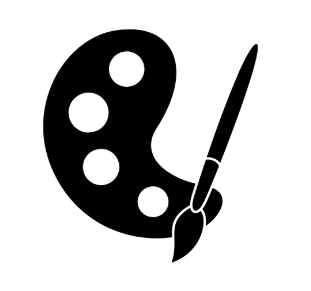
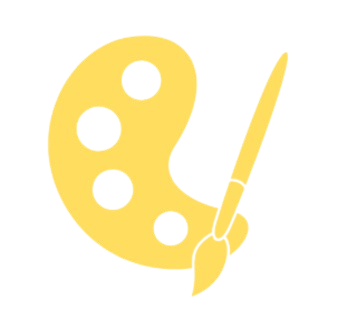
[dyad] Substituição do ícone de Artes Visuais pela nova imagem anexada - wrote 2 file(s)

Changed region(s): [[0.1158, 0.0928, 0.8392, 0.8969]]

diff --git a/src/pages/Index.tsx b/src/pages/Index.tsx
@@ -10,7 +10,6 @@ import { Button } from '@/components/ui/button';
 import { useIsMobile } from '@/hooks/use-mobile';
 
 // Importando os ícones e as imagens de fundo
-import iconVisuais from '@/assets/icon-visuais.png';
 import iconCenicas from '@/assets/icon-cenicas.png';
 import iconAudiovisual from '@/assets/icon-audiovisual.png';
 import iconLiteratura from '@/assets/icon-literatura.png';
@@ -21,8 +20,9 @@ import heroBg from '@/assets/hero-bg.png';
 import waveLeft from '@/assets/wave-left.png';
 import waveRight from '@/assets/wave-right.png';
 
-// Novo ícone de música enviado
+// Novos ícones enviados
 import iconMusica from '../../.dyad/media/89788568739c2801b420fc906edcac85b18bc344486da53b8290c2a0c1a7167b.png';
+import iconVisuais from '../../.dyad/media/82d0adce100c586902cd62f56438d5adaaf5878dd998ec90e517ac72f31aa9c3.png';
 
 const Index = () => {
   const isMobile = useIsMobile();
